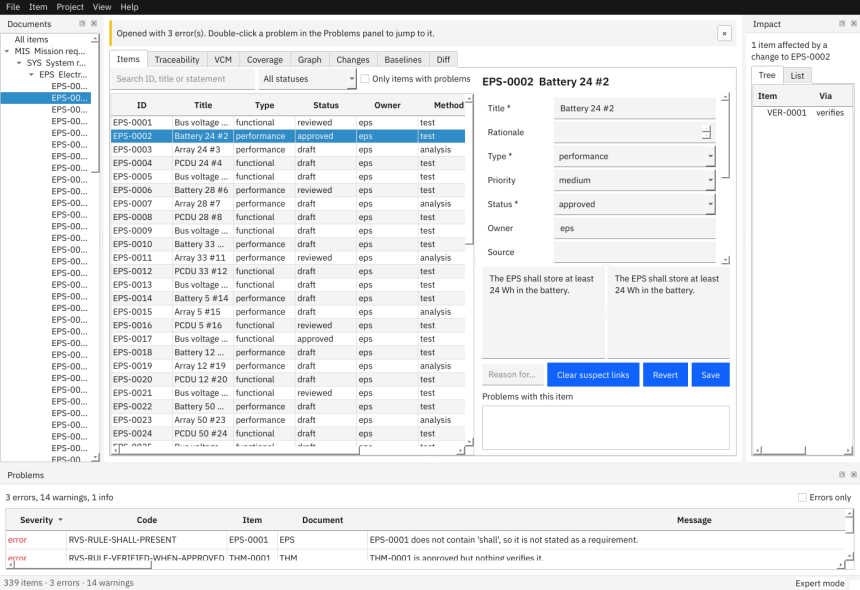
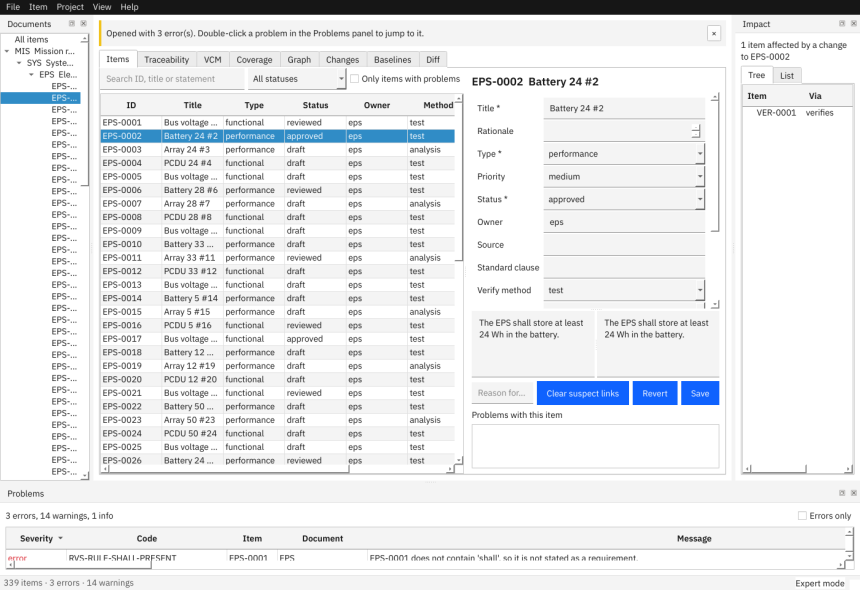
Editor: help for the focused field instead of under every field; more fields visible; layering fix
Claude-Session: https://claude.ai/code/session_019WkrENDoye5wQVdk7UEFeu

Changed region(s): [[0.0, 0.0305, 0.9977, 0.9763], [0.786, 0.8542, 0.8465, 0.9458]]

diff --git a/rvs/src/rvs_core/guide/guide.html b/rvs/src/rvs_core/guide/guide.html
@@ -37,7 +37,7 @@ td { padding: 4px 8px; }
 <li>Tabs for <strong>Traceability</strong>, <strong>VCM</strong> (verification control matrix), <strong>Coverage</strong>, <strong>Graph</strong>, <strong>Changes</strong>, <strong>Baselines</strong> and <strong>Diff</strong>.</li>
 </ul>
 <a name="guided-and-expert-mode"></a><h3 id="guided-and-expert-mode">Guided and expert mode</h3>
-<p>RVS starts in <strong>guided mode</strong>: a step-by-step wizard for new requirements, a line of help under every field and a roomy table. When you know the tool, switch to <strong>expert mode</strong> with <strong>View &gt; Mode</strong> or <strong>Ctrl+Shift+M</strong>: a dense table you can edit directly, and the quick "new item" dialog. Your choice is remembered.</p>
+<p>RVS starts in <strong>guided mode</strong>: a step-by-step wizard for new requirements, an explanation of the field you are editing and a roomy table. When you know the tool, switch to <strong>expert mode</strong> with <strong>View &gt; Mode</strong> or <strong>Ctrl+Shift+M</strong>: a dense table you can edit directly, and the quick "new item" dialog. Your choice is remembered.</p>
 <table>
 <thead>
 <tr>
@@ -86,7 +86,7 @@ td { padding: 4px 8px; }
 <a name="guided-walkthrough"></a><h1 id="guided-walkthrough">Guided walkthrough</h1>
 <p>This walkthrough uses the <em>Small satellite</em> example (<strong>File &gt; Open Example</strong>). Everything in it is fictional.</p>
 <a name="1-find-your-way-around"></a><h2 id="1-find-your-way-around">1. Find your way around</h2>
-<p>Click <strong>EPS</strong> in the Documents panel. The table shows the electrical power subsystem requirements. Select one: the editor on the right shows its statement, its fields (each with a line of help) and <strong>Problems with this item</strong>.</p>
+<p>Click <strong>EPS</strong> in the Documents panel. The table shows the electrical power subsystem requirements. Select one: the editor on the right shows its statement, its fields (a help line explains the one you are in) and <strong>Problems with this item</strong>.</p>
 <p>Use <strong>Ctrl+F</strong> to search by ID, title or statement, the status box to filter, and <em>Only items with problems</em> to see what needs attention. <strong>Ctrl+G</strong> jumps to an ID. <strong>F8</strong> and <strong>Shift+F8</strong> step through the items that have problems.</p>
 <a name="2-write-a-new-requirement"></a><h2 id="2-write-a-new-requirement">2. Write a new requirement</h2>
 <p>Press <strong>Ctrl+N</strong> (or <strong>Item &gt; New Requirement…</strong>). The wizard has five steps:</p>

diff --git a/rvs/src/rvs_gui/editor.py b/rvs/src/rvs_gui/editor.py
@@ -3,7 +3,7 @@ live preview, parent links, a mandatory-when-baselined reason, and the item's ow
 
 from typing import Any
 
-from PySide6.QtCore import Qt, Signal
+from PySide6.QtCore import QEvent, QObject, Qt, Signal
 from PySide6.QtWidgets import (
     QFormLayout,
     QHBoxLayout,
@@ -29,6 +29,8 @@ from rvs_gui.fields import parse_list as _parse_list
 from rvs_gui.session import ProjectSession
 from rvs_gui.widgets import AcronymHighlighter
 
+NO_FIELD_HELP = "Select a field to see what it means."
+
 # Attributes edited elsewhere or managed by RVS.
 _HIDDEN = {"rvs_schema_version"}
 _LIST_TYPES = fields.LIST_TYPES
@@ -49,12 +51,12 @@ class RequirementEditor(QWidget):
         self._loading = False
         self._last_dirty = False
         self._help_visible = True
-        self._help_labels: list[QLabel] = []
+        self._help_for: dict[QWidget, str] = {}
 
         self.heading = QLabel("No item selected")
         self.heading.setStyleSheet("font-size: 18px; font-weight: 600;")
         self.form = QFormLayout()
-        self.form.setVerticalSpacing(4)
+        self.form.setVerticalSpacing(2)
         self.form.setLabelAlignment(Qt.AlignmentFlag.AlignLeft | Qt.AlignmentFlag.AlignVCenter)
         self.form.setFieldGrowthPolicy(QFormLayout.FieldGrowthPolicy.AllNonFixedFieldsGrow)
         self.statement = QPlainTextEdit()
@@ -71,7 +73,7 @@ class RequirementEditor(QWidget):
         self.clear_suspect_button.setToolTip("Accept the current state of the parent items this item links to")
         self.clear_suspect_button.setEnabled(False)
         self.item_findings = QListWidget()
-        self.item_findings.setMaximumHeight(110)
+        self.item_findings.setMaximumHeight(72)
         self.item_findings.setWordWrap(True)
 
         text_split = QSplitter()
@@ -79,16 +81,26 @@ class RequirementEditor(QWidget):
         text_split.addWidget(self.preview)
         form_holder = QWidget()
         form_holder.setLayout(self.form)
-        form_scroll = QScrollArea()
-        form_scroll.setWidgetResizable(True)
-        form_scroll.setWidget(form_holder)
-        form_scroll.setFrameShape(QScrollArea.Shape.NoFrame)
-        form_scroll.setMinimumHeight(280)
-        text_split.setMinimumHeight(150)
+        self.form_scroll = QScrollArea()
+        self.form_scroll.setWidgetResizable(True)
+        self.form_scroll.setWidget(form_holder)
+        self.form_scroll.setFrameShape(QScrollArea.Shape.NoFrame)
+        self.form_scroll.setMinimumHeight(200)
+        # Guided mode explains the field being edited here, instead of a help line under every field (which left
+        # room for only three fields at once).
+        self.help_line = fields.help_label(NO_FIELD_HELP)
+        self.help_line.setMinimumHeight(44)
+        self.help_line.setAlignment(Qt.AlignmentFlag.AlignTop)
+        form_pane = QWidget()
+        pane_layout = QVBoxLayout(form_pane)
+        pane_layout.setContentsMargins(0, 0, 0, 0)
+        pane_layout.addWidget(self.form_scroll, 1)
+        pane_layout.addWidget(self.help_line)
+        text_split.setMinimumHeight(100)
         vertical = QSplitter(Qt.Orientation.Vertical)
-        vertical.addWidget(form_scroll)
+        vertical.addWidget(form_pane)
         vertical.addWidget(text_split)
-        vertical.setStretchFactor(0, 3)
+        vertical.setStretchFactor(0, 5)
         vertical.setStretchFactor(1, 2)
         buttons = QHBoxLayout()
         buttons.addWidget(self.why, 1)
@@ -115,7 +127,7 @@ class RequirementEditor(QWidget):
         while self.form.rowCount():
             self.form.removeRow(0)
         self._fields.clear()
-        self._help_labels.clear()
+        self._help_for.clear()
         cfg = self.session.cfg
         kind = self.session.kind_of(item.document)
         self._defs = [
@@ -125,7 +137,7 @@ class RequirementEditor(QWidget):
             widget = fields.make_widget(self.session, adef, self._on_edited)
             self._fields[adef.name] = widget
             self.form.addRow(fields.label_text(adef), widget)
-            self._add_help(fields.help_text(adef))
+            self._track_help(widget, fields.help_text(adef))
         decl = cfg.project.document(item.document)
         root_doc = decl is not None and decl.parent is None
         parent_doc = decl.parent if decl else None
@@ -141,26 +153,30 @@ class RequirementEditor(QWidget):
         parents.textChanged.connect(self._on_edited)
         self._fields["parents"] = parents
         self.form.addRow("Parents", parents)
-        self._add_help("The requirements this one derives from, from the parent document." if not root_doc else "")
+        self._track_help(
+            parents,
+            "The requirements this one derives from, from the parent document."
+            if not root_doc
+            else "A top-level document: its requirements have no parents.",
+        )
         rules = {r["id"]: r.get("params", {}) for r in cfg.rules["rules"]}
         params = rules.get("undefined-acronym", {})
         self.highlighter.configure(
             set(cfg.glossary.acronyms), int(params.get("min_length", 2)), set(params.get("ignore", []))
         )
 
-    def _add_help(self, text: str) -> None:
-        label = fields.help_label(text)
-        label.setVisible(self._help_visible and bool(text))
-        self._help_labels.append(label)
-        self.form.addRow("", label)
+    def _track_help(self, widget: QWidget, text: str) -> None:
+        self._help_for[widget] = text
+        widget.installEventFilter(self)
+
+    def eventFilter(self, obj: QObject, event: QEvent) -> bool:  # noqa: N802 - Qt API
+        if event.type() == QEvent.Type.FocusIn and isinstance(obj, QWidget) and obj in self._help_for:
+            self.help_line.setText(self._help_for[obj] or NO_FIELD_HELP)
+        return False
 
     def restyle(self) -> None:
-        """Rebuild the form so help labels pick up the colours of the current theme."""
-        if self._item is not None and self.current_uid:
-            dirty = self.is_dirty()
-            if not dirty:
-                self._rebuild_form(self._item)
-                self.load(self.current_uid)
+        """Re-apply the colours of the current theme to the help line."""
+        self.help_line.setStyleSheet(fields.help_label("").styleSheet())
 
     def help_visible(self) -> bool:
         return self._help_visible
@@ -168,8 +184,7 @@ class RequirementEditor(QWidget):
     def set_help_visible(self, visible: bool) -> None:
         """Guided mode shows a line of help under every field; expert mode keeps the tooltips only."""
         self._help_visible = visible
-        for label in self._help_labels:
-            label.setVisible(visible and bool(label.text()))
+        self.help_line.setVisible(visible)
 
     def field(self, name: str) -> Any:
         return self._fields[name]

diff --git a/rvs/tests/test_gui_editor_layout.py b/rvs/tests/test_gui_editor_layout.py
@@ -1,0 +1,69 @@
+"""Editor layout: help for the field being edited (not under every field), and enough fields visible at once."""
+
+from pathlib import Path
+
+import pytest
+from PySide6.QtCore import QEvent
+from PySide6.QtGui import QFocusEvent
+from PySide6.QtWidgets import QApplication, QPlainTextEdit
+
+from rvs_gui.app import MainWindow, create_main_window
+
+
+@pytest.fixture
+def win(qtbot, minimal_project: Path) -> MainWindow:  # type: ignore[no-untyped-def]
+    w = create_main_window()
+    qtbot.addWidget(w)
+    w.resize(1400, 960)
+    w.show()
+    assert w.open_project(minimal_project)
+    w.select_item("EPS-0001")
+    return w
+
+
+def _focus(widget) -> None:  # type: ignore[no-untyped-def]
+    QApplication.sendEvent(widget, QFocusEvent(QEvent.Type.FocusIn))
+
+
+def test_help_line_follows_the_field_being_edited(win: MainWindow):
+    editor = win.editor
+    assert "Select a field" in editor.help_line.text()
+    _focus(editor.field("rationale"))
+    assert "Why the requirement exists" in editor.help_line.text()
+    _focus(editor.field("parents"))
+    assert "derives from" in editor.help_line.text()
+    _focus(editor.field("verify_method"))
+    assert "How compliance will be shown" in editor.help_line.text()
+
+
+def test_help_line_is_a_guided_mode_feature(win: MainWindow):
+    assert win.editor.help_line.isVisibleTo(win.editor)
+    win.set_mode("expert")
+    assert not win.editor.help_line.isVisibleTo(win.editor) and win.editor.help_visible() is False
+    win.set_mode("guided")
+    assert win.editor.help_line.isVisibleTo(win.editor)
+
+
+def test_the_form_has_one_row_per_field_no_help_rows(win: MainWindow):
+    editor = win.editor
+    assert editor.form.rowCount() == len(editor._defs) + 1  # noqa: SLF001 - every attribute plus Parents
+
+
+def test_most_fields_are_visible_without_scrolling_on_a_normal_screen(win: MainWindow, qtbot):  # type: ignore[no-untyped-def]
+    qtbot.wait(100)
+    editor = win.editor
+    scroll = editor.form_scroll
+    viewport = scroll.viewport()
+    visible = 0
+    for widget in editor._fields.values():  # noqa: SLF001
+        top = widget.mapTo(viewport, widget.rect().topLeft()).y()
+        if top >= 0 and top + widget.height() <= viewport.height():
+            visible += 1
+    assert visible >= 8, f"only {visible} of {len(editor._fields)} fields fit"  # noqa: SLF001
+
+
+def test_statement_and_problems_keep_a_usable_size(win: MainWindow, qtbot):  # type: ignore[no-untyped-def]
+    qtbot.wait(100)
+    statement = win.editor.statement
+    assert isinstance(statement, QPlainTextEdit)
+    assert statement.height() >= 90 and win.editor.item_findings.height() <= 80

diff --git a/rvs/src/rvs_core/diagnostics.py b/rvs/src/rvs_core/diagnostics.py
@@ -138,13 +138,9 @@ def selftest() -> list[CheckResult]:
         return f"{len(data)} bytes, reads back unchanged"
 
     def yaml_parser() -> str:
-        import doorstop.common as doorstop_common
-        import yaml
+        from rvs_core.adapter import yaml_parser_is_fast
 
-        fast = getattr(yaml, "CSafeLoader", None) is not None and doorstop_common.load_yaml.__defaults__ == (
-            yaml.CSafeLoader,
-        )
-        return "libyaml (fast)" if fast else "pure Python (slower on large projects)"
+        return "libyaml (fast)" if yaml_parser_is_fast() else "pure Python (slower on large projects)"
 
     def baseline() -> str:
         from rvs_core.changecontrol.baselines import create_baseline, verify_baseline

diff --git a/rvs/src/rvs_core/adapter/__init__.py b/rvs/src/rvs_core/adapter/__init__.py
@@ -4,7 +4,15 @@ from rvs_core.adapter import _offline_guard
 
 _offline_guard.install()  # must run before the first Doorstop import
 
-from rvs_core.adapter.doorstop_adapter import DoorstopProject
+from rvs_core.adapter.doorstop_adapter import DoorstopProject, yaml_parser_is_fast
 from rvs_core.adapter.model import DocumentInfo, Issue, ItemData, ProjectError, UnreadableItemError
 
-__all__ = ["DocumentInfo", "DoorstopProject", "Issue", "ItemData", "ProjectError", "UnreadableItemError"]
+__all__ = [
+    "DocumentInfo",
+    "DoorstopProject",
+    "Issue",
+    "ItemData",
+    "ProjectError",
+    "UnreadableItemError",
+    "yaml_parser_is_fast",
+]

diff --git a/rvs/src/rvs_core/adapter/doorstop_adapter.py b/rvs/src/rvs_core/adapter/doorstop_adapter.py
@@ -39,6 +39,14 @@ _settings.ADDREMOVE_FILES = False
 if getattr(yaml, "CSafeLoader", None) is not None:
     _doorstop_common.load_yaml.__defaults__ = (yaml.CSafeLoader,)
 
+
+def yaml_parser_is_fast() -> bool:
+    """True when Doorstop reads items with libyaml's C parser (see above)."""
+    return getattr(yaml, "CSafeLoader", None) is not None and _doorstop_common.load_yaml.__defaults__ == (
+        yaml.CSafeLoader,
+    )
+
+
 # Doorstop item fields that are not RVS extended attributes.
 _CORE_FIELDS = frozenset({"level", "active", "normative", "derived", "reviewed", "text", "ref", "links", "header"})
 

diff --git a/rvs/src/rvs_gui/app.py b/rvs/src/rvs_gui/app.py
@@ -201,6 +201,7 @@ class MainWindow(QMainWindow):
         self.addDockWidget(Qt.DockWidgetArea.RightDockWidgetArea, self.impact_panel)
         self.mode_label = QLabel()
         self.statusBar().addPermanentWidget(self.mode_label)
+        self.resizeDocks([self.problems_panel], [120], Qt.Orientation.Vertical)  # the editor needs the height more
         self._build_menus(tree_dock)
         self._connect()
         self._setup_inline_editing()

diff --git a/rvs/tests/test_yaml_loader.py b/rvs/tests/test_yaml_loader.py
@@ -13,7 +13,9 @@ pytestmark = pytest.mark.skipif(not hasattr(yaml, "CSafeLoader"), reason="PyYAML
 
 
 def test_doorstop_uses_the_c_loader():
-    assert common.load_yaml.__defaults__ == (yaml.CSafeLoader,)
+    from rvs_core.adapter import yaml_parser_is_fast
+
+    assert common.load_yaml.__defaults__ == (yaml.CSafeLoader,) and yaml_parser_is_fast()
 
 
 @pytest.mark.parametrize("example", ["minimal10", "satellite300"])

diff --git a/rvs/src/rvs_gui/fields.py b/rvs/src/rvs_gui/fields.py
@@ -79,7 +79,7 @@ def make_widget(session: ProjectSession, adef: AttributeDef, on_change: Callable
         widget = line
     tip = help_text(adef)
     widget.setToolTip((tip + "\n\nRequired." if adef.required else tip) if tip else "")
-    widget.setMinimumHeight(64 if isinstance(widget, QPlainTextEdit) else 32)
+    widget.setMinimumHeight(56 if isinstance(widget, QPlainTextEdit) else 28)
     return widget
 
 

diff --git a/rvs/docs/DECISIONS.md b/rvs/docs/DECISIONS.md
@@ -81,4 +81,5 @@ One line each: decision — rationale. Status: **A** = answered by user, **D** =
 | D75 | Cold open of 5,000 items: Doorstop's YAML reads use libyaml's C parser (`CSafeLoader`) when PyYAML has it: 6.6 s -> 2.0 s. Tests read every example file with both loaders and compare the data; without libyaml the default loader stays | V14 (accepted by the user; now also meets the 3 s target) |
 | D76 | A hand-edited item file that no longer parses is reported as `RVS-ITEM-UNREADABLE` (fatal, names the file and line) instead of crashing the validation | Found while testing the loader swap |
 | D77 | Guide screenshots are generated from the fictional example (`scripts/build_screenshots.py`, offscreen Qt) and committed next to the bundled guide; a test checks every image the guide references exists | Post-v1 list: screenshots |
+| D78 | Editor layout: guided mode explains the field being edited in one help line under the form (hover tooltips remain) instead of a line under every field; the Problems dock starts at 120 px; form rows are 28 px. At 1400x960 at least 8 of the 14 fields are visible without scrolling (tested) | Screenshots showed three visible fields |
 

diff --git a/rvs/docs/guide/02-guided-walkthrough.md b/rvs/docs/guide/02-guided-walkthrough.md
@@ -4,7 +4,7 @@ This walkthrough uses the *Small satellite* example (**File > Open Example**). E
 
 ## 1. Find your way around
 
-Click **EPS** in the Documents panel. The table shows the electrical power subsystem requirements. Select one: the editor on the right shows its statement, its fields (each with a line of help) and **Problems with this item**.
+Click **EPS** in the Documents panel. The table shows the electrical power subsystem requirements. Select one: the editor on the right shows its statement, its fields (a help line explains the one you are in) and **Problems with this item**.
 
 Use **Ctrl+F** to search by ID, title or statement, the status box to filter, and *Only items with problems* to see what needs attention. **Ctrl+G** jumps to an ID. **F8** and **Shift+F8** step through the items that have problems.
 

diff --git a/rvs/docs/guide/01-getting-started.md b/rvs/docs/guide/01-getting-started.md
@@ -34,7 +34,7 @@ The same from the command line: `rvs init my-project --name "My project" --templ
 
 ### Guided and expert mode
 
-RVS starts in **guided mode**: a step-by-step wizard for new requirements, a line of help under every field and a roomy table. When you know the tool, switch to **expert mode** with **View > Mode** or **Ctrl+Shift+M**: a dense table you can edit directly, and the quick "new item" dialog. Your choice is remembered.
+RVS starts in **guided mode**: a step-by-step wizard for new requirements, an explanation of the field you are editing and a roomy table. When you know the tool, switch to **expert mode** with **View > Mode** or **Ctrl+Shift+M**: a dense table you can edit directly, and the quick "new item" dialog. Your choice is remembered.
 
 | | Guided | Expert |
 |---|---|---|
